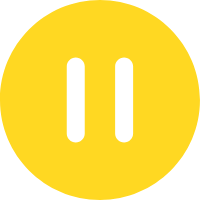
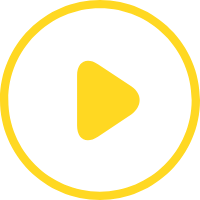
完成音乐播放器

diff --git a/music.cpp b/music.cpp
@@ -6,7 +6,10 @@ music::music(QWidget *parent)
     , ui(new Ui::music)
 {
     ui->setupUi(this);
-    initbutton();
+    init();
+    setstylesheet();
+
+
 
 
 }
@@ -16,22 +19,26 @@ music::~music()
     delete ui;
 }
 
-void music::initbutton(){
-    QPushButton *playbtn = new QPushButton(this);
-    QPushButton *nextsongbtn = new QPushButton(this);
-    QPushButton *presongbtn = new QPushButton(this);
-    QPushButton *fileselectbtn = new QPushButton(this);
-    QPushButton *playmodebtn = new QPushButton(this);
-
-    playbtn->setIcon(QIcon(":/image/music/playback.png"));
+void music::init(){//初始化
+    //按钮初始化
+    playbtn = new QPushButton(this);
+    pausebtn = new QPushButton(this);
+    nextsongbtn = new QPushButton(this);
+    presongbtn = new QPushButton(this);
+    fileselectbtn = new QPushButton(this);
+    playmodebtn = new QPushButton(this);
+    //设置按钮图标
+    playbtn->setIcon(QIcon(":/image/music/play.png"));
+    pausebtn->setIcon(QIcon(":/image/music/pause.png"));
     nextsongbtn->setIcon(QIcon(":/image/music/nextsong.png"));
     presongbtn->setIcon(QIcon(":/image/music/presong.png"));
     fileselectbtn->setIcon(QIcon(":/image/music/file.png"));
     playmodebtn->setIcon(QIcon(":/image/music/seqplay.png"));
-
-
+    //设置按钮位置
     playbtn->setGeometry(565,700,70,70);
     playbtn->setIconSize(QSize(60,60));
+    pausebtn->setGeometry(565,700,70,70);
+    pausebtn->setIconSize(QSize(60,60));
     nextsongbtn->setGeometry(640,700,70,70);
     nextsongbtn->setIconSize(QSize(60,60));
     presongbtn->setGeometry(490,700,70,70);
@@ -40,5 +47,123 @@ void music::initbutton(){
     playmodebtn->setIconSize(QSize(60,60));
     fileselectbtn->setGeometry(1100,700,70,70);
     fileselectbtn->setIconSize(QSize(60,60));
+    //设置播放器和模式
+    playlist = new QMediaPlaylist;
+    player = new QMediaPlayer;
+    playlist->setPlaybackMode(QMediaPlaylist::Sequential);//默认设置顺序播放
+    playmode = 1;//1代表顺序播放
+    player->setPlaylist(playlist);
+    playbtn->hide();
+    pausebtn->show();
+    //信号与槽
+    connect(fileselectbtn,&QPushButton::clicked,this,&music::set_musicfilepath);//设置文件夹路径
+    connect(ui->musiclistwidget,&QListWidget::itemDoubleClicked,this,&music::playmusiclistitem);//双击播放
+    connect(pausebtn,&QPushButton::clicked,this,&music::playmusic);//播放
+    connect(playbtn,&QPushButton::clicked,this,&music::pausemusic);//暂停
+    connect(nextsongbtn,&QPushButton::clicked,this,&music::nextsong);//下一首
+    connect(presongbtn,&QPushButton::clicked,this,&music::presong);//上一首
+    connect(playmodebtn,&QPushButton::clicked,this,&music::setplaymode);//设置播放模式
+    connect(playlist,&QMediaPlaylist::currentMediaChanged,this,&music::show_current_musicname);//显示当前音乐名称
+
 
 }
+
+void music::set_musicfilepath(){
+    QString folderpath = QFileDialog::getExistingDirectory(this,"请选择音乐文件的路径:");
+    if(!folderpath.isEmpty()){
+        musicpath = folderpath;
+    }
+    else{
+        QMessageBox::warning(this,"警告","添加失败！");
+    }
+    get_musicfile();
+}
+
+void music::get_musicfile(){
+    QDir dir(musicpath);
+    QStringList filter;
+    filter<<"*.mp3";//筛选后缀名
+    musicfilelist = dir.entryInfoList(filter,QDir::Files);
+
+    foreach (QFileInfo file, musicfilelist) {
+        playlist->addMedia(QUrl::fromLocalFile(file.absoluteFilePath()));//添加进播放列表
+        QString name = file.fileName();
+        filelist<<name;//添加进音乐名称列表
+    }
+
+    ui->musiclistwidget->clear();//清除音乐显示列表
+    foreach(QFileInfo file,musicfilelist){
+        ui->musiclistwidget->addItem(file.fileName());//添加音乐显示列表
+    }
+}
+
+void music::playmusiclistitem(QListWidgetItem *item){
+    playbtn->show();
+    pausebtn->hide();
+    int index = ui->musiclistwidget->row(item);
+    playlist->setCurrentIndex(index);//设置当前双击音乐
+    player->play();
+}
+
+void music::playmusic(){
+    if(ui->musiclistwidget->count()!=0){
+        playbtn->show();
+        pausebtn->hide();
+        player->setPlaylist(playlist);
+        player->play();
+    }
+    else{
+        QMessageBox::warning(this,"警告","音乐列表为空！");
+    }
+}
+
+void music::pausemusic(){
+    player->stop();
+    playbtn->hide();
+    pausebtn->show();
+}
+
+void music::nextsong(){
+    playlist->next();
+    if(playbtn->isHidden()){
+        playbtn->show();
+        pausebtn->hide();
+    }
+    player->play();
+}
+
+void music::presong(){
+    playlist->previous();
+    if(playbtn->isHidden()){
+        playbtn->show();
+        pausebtn->hide();
+    }
+    player->play();
+}
+
+void music::setplaymode(){
+    if(playmode==1){
+        playmode=2;
+        playmodebtn->setIcon(QIcon(":/image/music/randplay.png"));
+        playlist->setPlaybackMode(QMediaPlaylist::Random);
+        qDebug()<<"设置随机播放成功";
+    }
+    else if(playmode==2){
+        playmode=1;
+        playmodebtn->setIcon(QIcon(":/image/music/seqplay.png"));
+        playlist->setPlaybackMode(QMediaPlaylist::Sequential);
+        qDebug()<<"设置顺序播放成功";
+    }
+}
+
+void music::show_current_musicname(){
+    ui->currentmusic_name->setPlainText("当前播放：");
+    ui->currentmusic_name->appendPlainText((filelist.at(playlist->currentIndex()).section(QRegExp("[/.]"),-2,-2)));
+}
+
+void music::setstylesheet(){
+    setStyleSheet("background-color: white;");
+    //使用css样式表设置外观样式！！！
+
+}
+

diff --git a/music.h b/music.h
@@ -10,6 +10,15 @@
 #include <QMediaPlayer>
 #include <QListView>
 #include <QStandardItemModel>
+#include <QFileDialog>
+#include <QMessageBox>
+#include <QDir>
+#include <QFileInfoList>
+#include <QMediaPlaylist>
+#include <QListWidget>
+#include <QString>
+#include <QPlainTextEdit>
+
 
 namespace Ui {
 class music;
@@ -23,20 +32,37 @@ public:
     explicit music(QWidget *parent = nullptr);
     ~music();
 
-    void initbutton();
+    void init();
+    void set_musicfilepath();//设置音乐文件路径
+    void get_musicfile();//获取音乐文件
+    void playmusiclistitem(QListWidgetItem *item);//双击播放音乐
+    void playmusic();//播放音乐
+    void pausemusic();//暂停
+    void nextsong();//下一首
+    void presong();//上一首
+    void setplaymode();//设置播放顺序模式
+    void show_current_musicname();//显示当前音乐名称
+    void setstylesheet();//设置样式表
 
 private:
     Ui::music *ui;
     //窗口大小：1200x800
-    QPushButton *playbtn;
-    QPushButton *nextsongbtn;
-    QPushButton *presongbtn;
-    QPushButton *fileselectbtn;
-    QPushButton *playmode;
-    bool playstate;
-    int playmodestate;
-    QListView *musiclistview;
-    QStandardItemModel *musiclistmodel;
+    QPushButton *playbtn;//播放按钮
+    QPushButton *pausebtn;//暂停按钮
+    QPushButton *nextsongbtn;//下一首
+    QPushButton *presongbtn;//上一首
+    QPushButton *fileselectbtn;//选择文件夹
+    QPushButton *playmodebtn;//播放顺序模式
+    QString musicpath;//音乐路径
+    QFileInfoList musicfilelist;//音乐名列表
+    QStringList filelist;//文件名列表
+    QMediaPlayer *player;//播放器
+    QMediaPlaylist *playlist;//播放列表
+    int playmode;//记录播放顺序模式1顺序2随机
+
+
+
+
 };
 
 #endif // MUSIC_H

diff --git a/account.h b/account.h
@@ -65,7 +65,6 @@ private:
     QPushButton *monthbtn;//月总览
     QPushButton *removebtn;//清除搜索条件按钮
     QLineEdit *searchline_edit;//搜索文本框
-
     QTableWidget *account_table;
 
     int buttonwidth = 80,buttonheight = 50;
